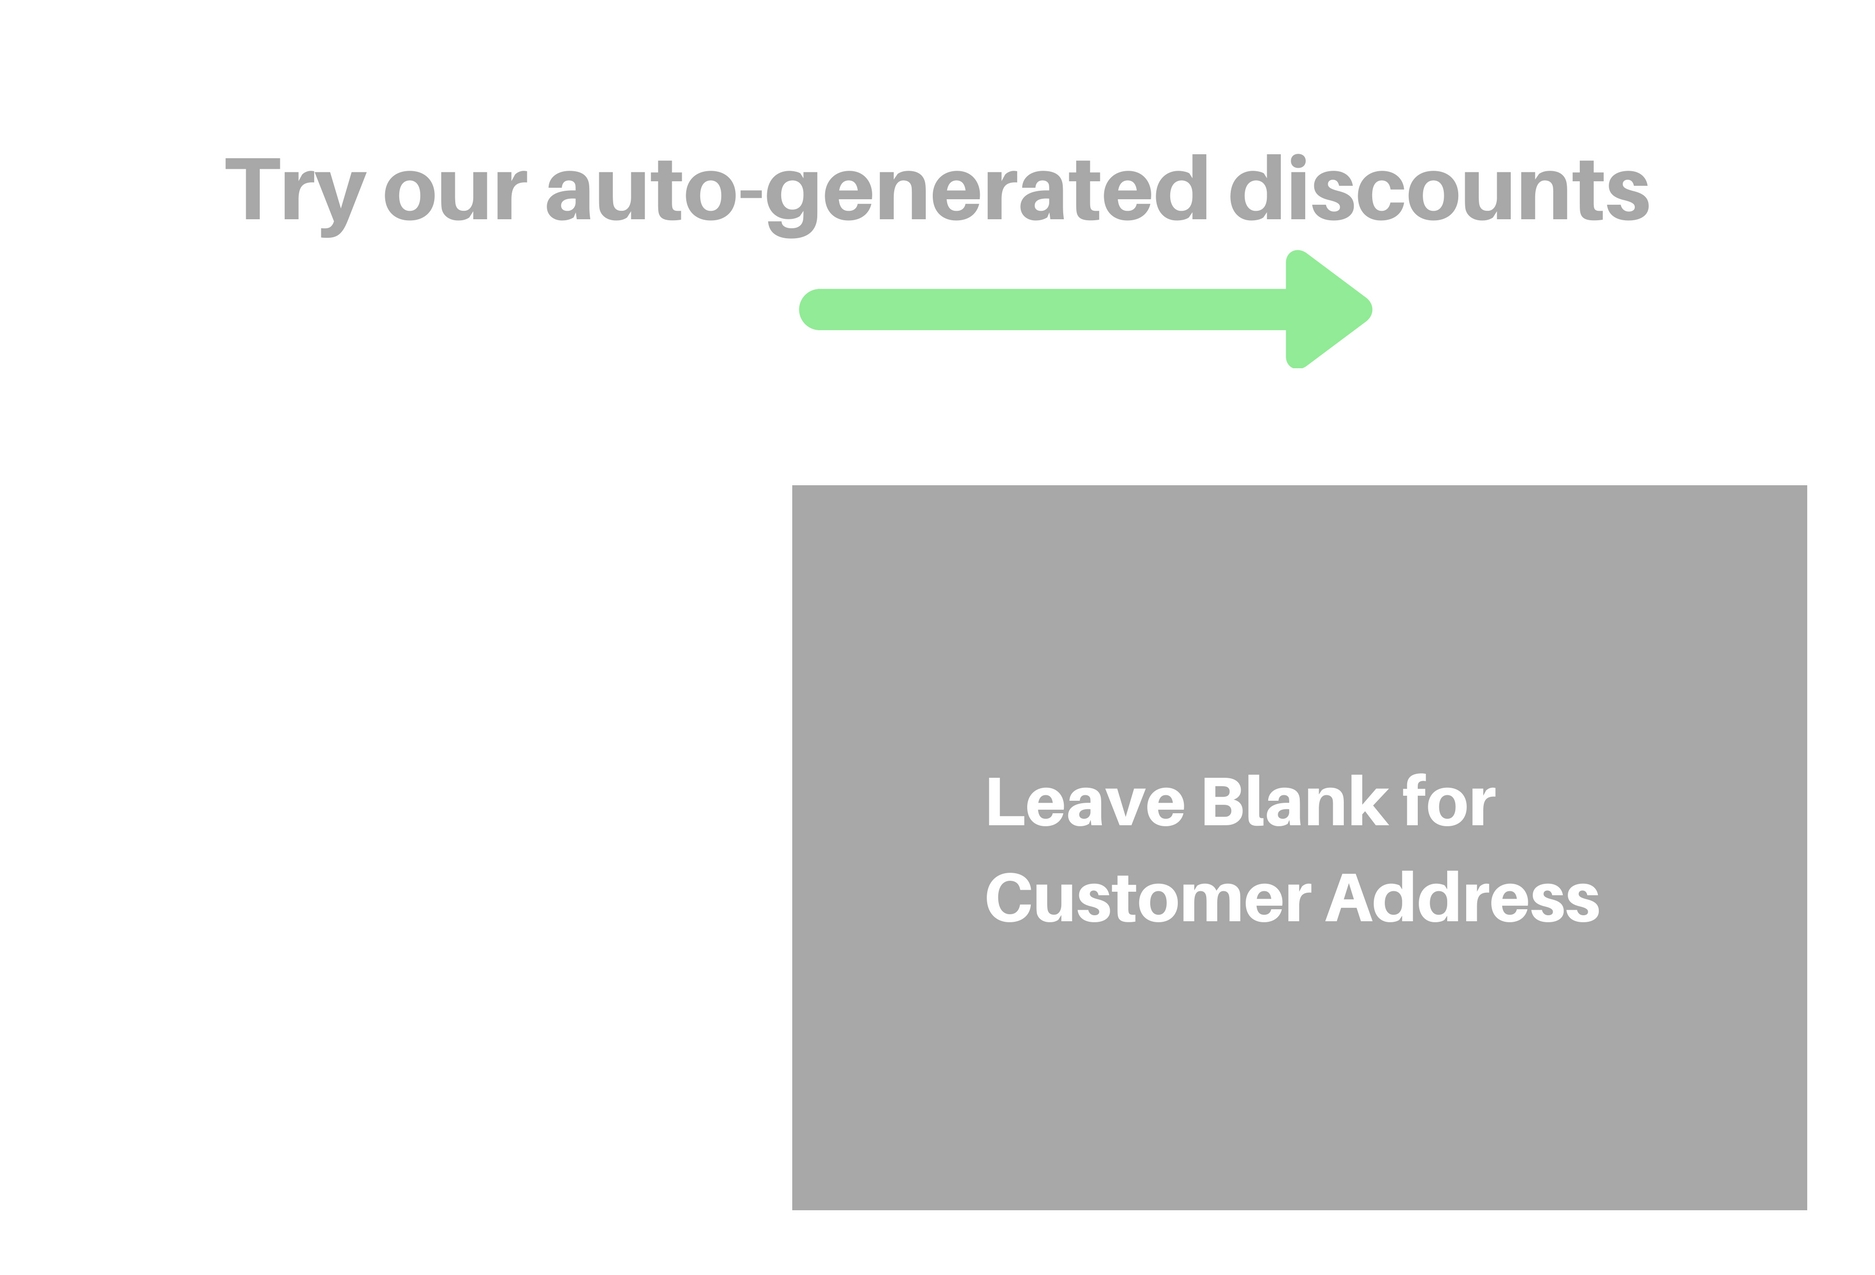
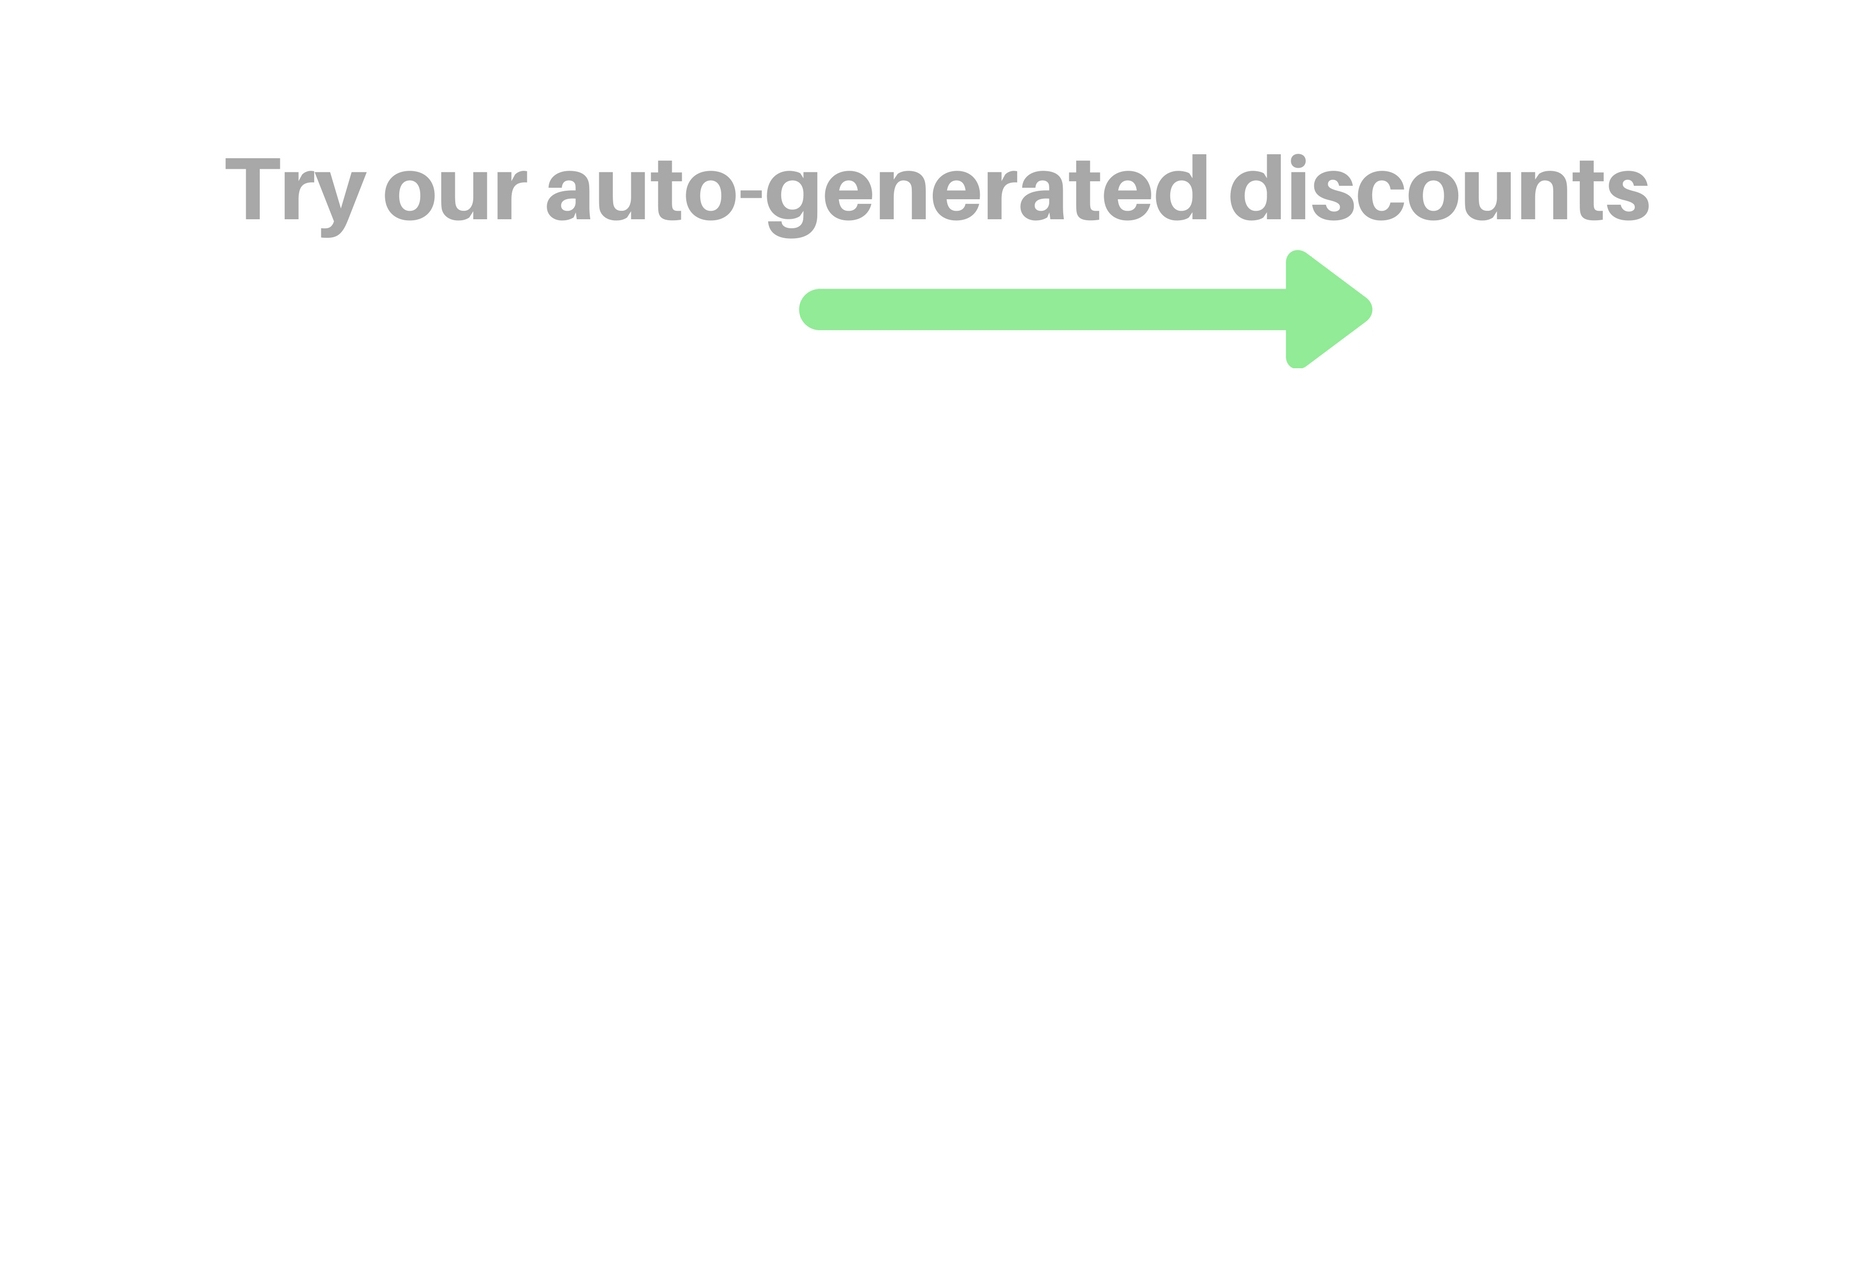
Fix Postage Overlay

Changed region(s): [[0.4021, 0.3671, 0.9899, 0.9482]]

diff --git a/app/javascript/components/card_elements/address_overlay_element.vue b/app/javascript/components/card_elements/address_overlay_element.vue
@@ -1,19 +1,33 @@
 <template>
     <base-element
             class="overlay"
-            :w="300"
-            :h="200"
-            :x="100"
-            :y="100"
+            :w="315"
+            :h="229"
+            :x="258"
+            :y="156"
             :resizable="false"
             :draggable="false"
 
     >
-        <div>HELLO</div>
+        <div class="address">
+            <div>
+                RECIPIENT NAME<br>
+                AND ADDRESS<br>
+                PRINTED HERE
+            </div>
+        </div>
     </base-element>
 </template>
 
 <script>
+  import BaseElement from './base_element.vue';
+
+  export default {
+    name: 'address_overlay_element',
+    extends: BaseElement
+  }
+
+
 </script>
 
 <style>
@@ -21,16 +35,19 @@
 <style scoped>
 
     .overlay {
-        background: lightsalmon;
-
-        position: absolute;
-        /*text-align: center;*/
-
+        background: white;
+        padding: 20px;
         width: 300px;
         height: 200px;
-        font-family: 'Montserrat';
         user-select: none;
+        outline: 2px dashed lightgray;
     }
 
+    .address {
+        position: relative;
+        color: grey;
+        top: 60%;
+        font-size: 120%;
+    }
 
 </style>
